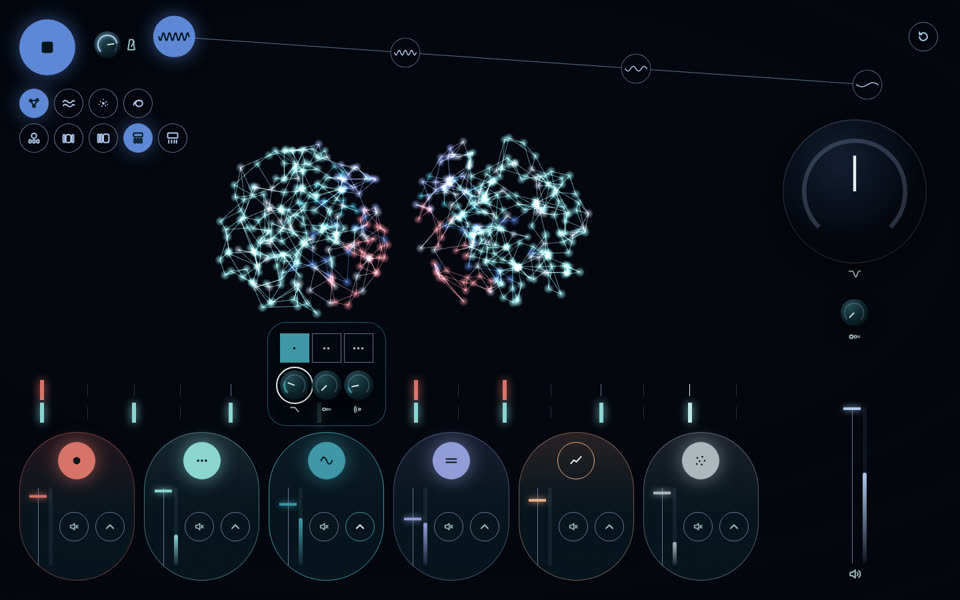
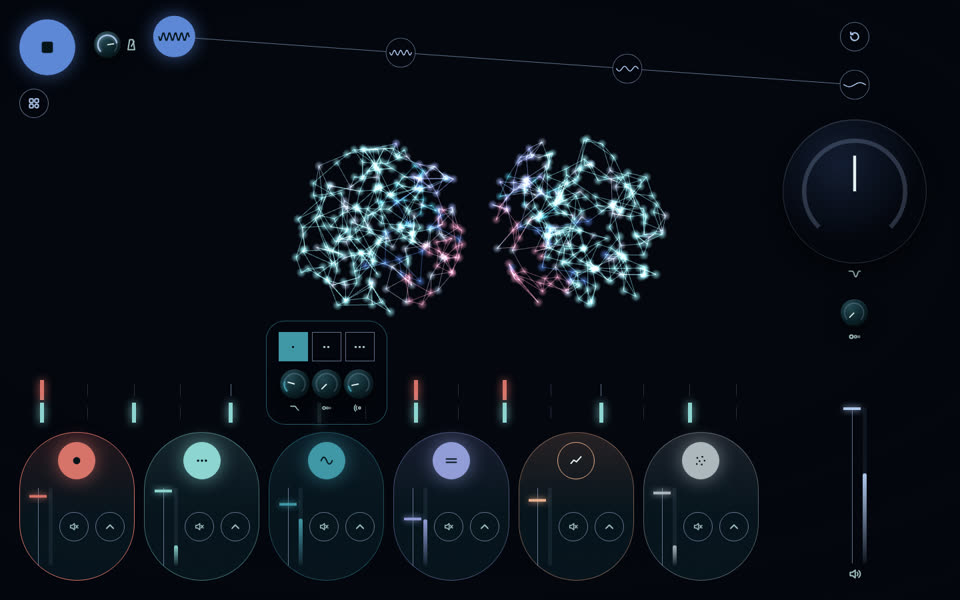
docs: neuron swarm views and panel variants

diff --git a/README.md b/README.md
@@ -20,17 +20,26 @@ python3 -m http.server 8000
 
 Под кнопкой старта кнопка «Варианты»: раскрывает виды нейронов и варианты нижней панели. Выбор хранится в адресе:
 
-- `?view=…`: вид нейронов, список ниже
-- `?layout=a|b|c`: вариант нижней панели, без параметра исходная
-  - `a`: раскрыт только выбранный канал, остальные показывают кнопку, фейдер и Mute
-  - `b`: шесть узких полос и один инспектор выбранного канала
-  - `c`: компактные капсулы, вариации и ручки всплывают над капсулой по наведению, фокусу или кнопке
+- `?view=network|flight|stream|field|cascade`: вид нейронов
+- `?layout=m|a|b|c`: вариант нижней панели, без параметра исходная
 
-Любой параметр канала доступен за одно действие: выбор канала (`a`, `b`) или раскрытие (`c`).
+Во всех вариантах шесть капсул равной ширины, ряд кончается по краю растра. Сброс, часть 4, кольцо DJ-фильтра и громкость стоят на одной вертикали.
 
-| `a` | `b` | `c` |
+| Вариант | Что видно | Где остальное |
 | --- | --- | --- |
-| ![Панель A](docs/panel-a.jpg) | ![Панель B](docs/panel-b.jpg) | ![Панель C](docs/panel-c.jpg) |
+| исходная | всё сразу | |
+| `m` | кнопка слоя, фейдер, Mute | капсула вырастает вверх по наведению, фокусу или кнопке |
+| `a` | у выбранного канала всё, у остальных кнопка, фейдер, Mute | выбор канала кликом |
+| `b` | шесть узких полос | инспектор выбранного канала справа от полос |
+| `c` | кнопка слоя, фейдер, Mute | карточка над капсулой по наведению, фокусу или кнопке |
+
+| `m` | `a` |
+| --- | --- |
+| ![Панель M](docs/panel-m.jpg) | ![Панель A](docs/panel-a.jpg) |
+
+| `b` | `c` |
+| --- | --- |
+| ![Панель B](docs/panel-b.jpg) | ![Панель C](docs/panel-c.jpg) |
 
 ## Управление
 
@@ -54,45 +63,33 @@ python3 -m http.server 8000
 
 ## Виды нейронов
 
-Клетки: стеклянная мембрана, сигналы бегут по ветвям, на фоне боке.
+`network`: исходная сеть, 520 нейронов в двух полушариях, импульсы по связям.
+
+Четыре вида-облака: каждый нейрон из ~5 000 частиц с плотной оболочкой и нитями-дендритами. Нота слоя зажигает нейрон этого слоя, по нитям бежит импульс наружу.
 
 | | |
 | --- | --- |
-| ![Мультиполярный нейрон](docs/view-multipolar.jpg) | ![Пирамидный нейрон](docs/view-pyramidal.jpg) |
-| ![Клетка Пуркинье](docs/view-purkinje.jpg) | ![Синапс](docs/view-synapse.jpg) |
-| ![Миелиновый аксон](docs/view-axon.jpg) | |
+| ![Полёт](docs/view-flight.jpg) | ![Лента](docs/view-stream.jpg) |
+| ![Поле](docs/view-field.jpg) | ![Каскад](docs/view-cascade.jpg) |
 
-- `multipolar`: мультиполярный нейрон, звезда ветвящихся дендритов и длинный аксон.
-- `pyramidal`: пирамидный нейрон коры, апикальный ствол с пучком наверху, базальные дендриты внизу.
-- `purkinje`: клетка Пуркинье мозжечка, плоский густой веер дендритов.
-- `synapse`: сигнал спускается в бутон, медиатор пересекает щель, дальше сигнал идёт по дендриту.
-- `axon`: миелиновый аксон, сигнал перескакивает от перехвата к перехвату.
+- `flight`: камера летит сквозь бесконечное поле нейронов, облака выплывают из глубины и проходят мимо.
+- `stream`: облака на разной глубине плывут поперёк экрана и по кругу возвращаются.
+- `field`: облака заполняют фон и живут на месте: дышат, вспыхивают по слоям.
+- `cascade`: вспышка переходит к соседним нейронам с задержкой, искры показывают передачу (нейронная лавина).
 
-Поля и облака:
-
-| | |
-| --- | --- |
-| ![Волна](docs/view-flow.jpg) | ![Ядро](docs/view-storm.jpg) |
-| ![Ленты](docs/view-ink.jpg) | |
-
-- `network`: 520 нейронов в двух полушариях, импульсы по связям.
-- `flow`: поле точек как кора, волны активности бегут по Simplex-шуму, полушария со сдвигом фазы.
-- `storm`: два облака по 18 000 точек, популяция дышит, спайки расходятся от центра.
-- `ink`: ленты-аксоны по орбитам вокруг стеклянной сферы, сигнал бежит по ленте своего слоя.
-
-Общая модель спайков (`src/views/spikes.js`): вспышка, волна по полушарию, затухание, рефрактерный период 0,14 с, редкая фоновая активность.
+Общая модель спайков (`src/views/spikes.js`): рефрактерный период, затухание, редкая фоновая активность.
 
 | Синтезатор | Визуализация |
 | --- | --- |
-| нота слоя | спайк цвета слоя: волна по полушарию или сигнал по ветвям клетки |
+| нота слоя | спайк цвета слоя: импульс по сети или вспышка нейрона и импульс по нитям |
 | уровень слоя (Tone.Meter) | яркость популяции |
 | Mute, выключенный слой | популяция гаснет |
-| темп | скорость волны, дыхания, течения |
+| темп | скорость импульсов, дыхания и полёта |
 | простор (реверб) | время затухания спайка |
 | DJ-фильтр закрыт | меньше видимых точек и связей, тусклее |
 | часть сета 1 → 4 | меньше насыщенности, плотности и энергии |
 | уровень мастера | энергия: амплитуда волн и вращения |
-| курсор | раздвигает точки (`flow`, `storm`), мышь крутит сцену |
+| курсор | раздвигает частицы облаков, мышь крутит сеть |
 
 Один WebGL-рендерер на все виды, pixel ratio не больше 2, на скрытой вкладке кадры не рисуются, при смене вида геометрии и материалы освобождаются. При `prefers-reduced-motion` спайков нет, движение медленное.
 
@@ -109,7 +106,7 @@ src/
   audio.js      звуковой граф и транспорт, без DOM
   controls.js   ручка, движок, кнопки, растр
   visuals.js    рендерер, переключение видов, сглаженное состояние музыки
-  views/        виды нейронов, модель спайков, общие детали клеток, шум
+  views/        network.js, swarm.js (облака), spikes.js (модель спайков)
   icons.js      SVG-значки
   main.js       точка входа
 styles/
